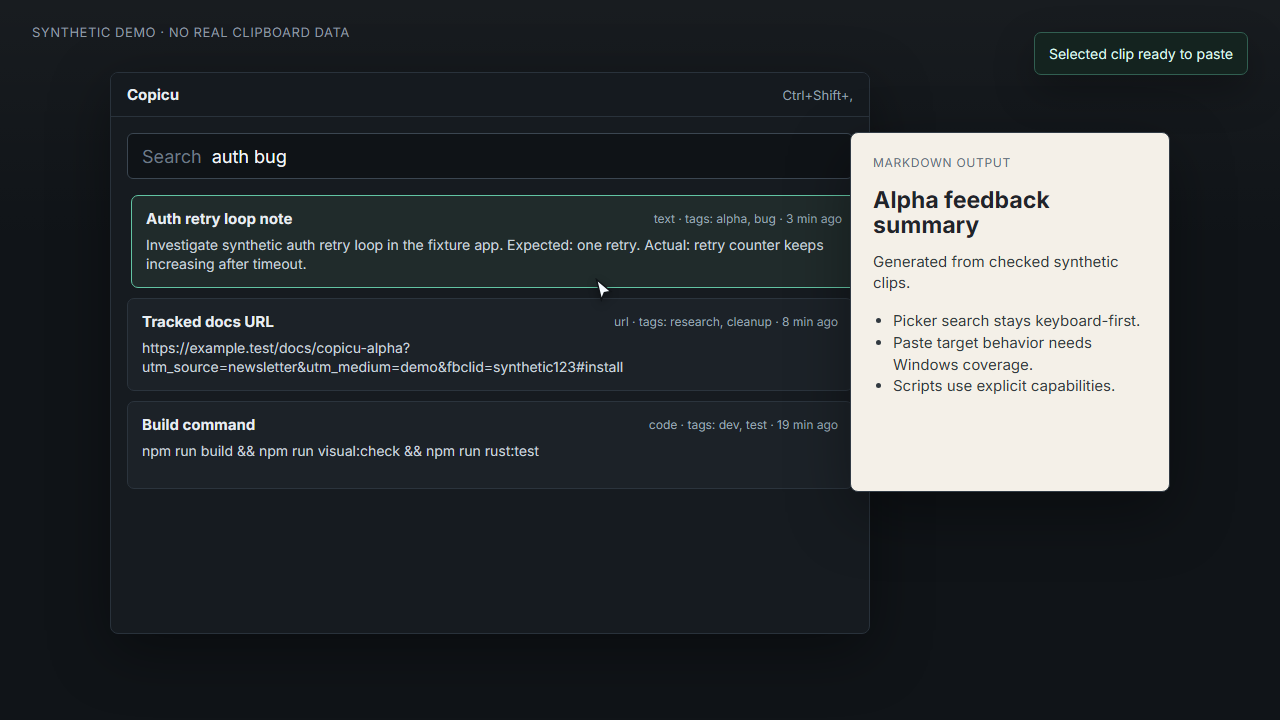
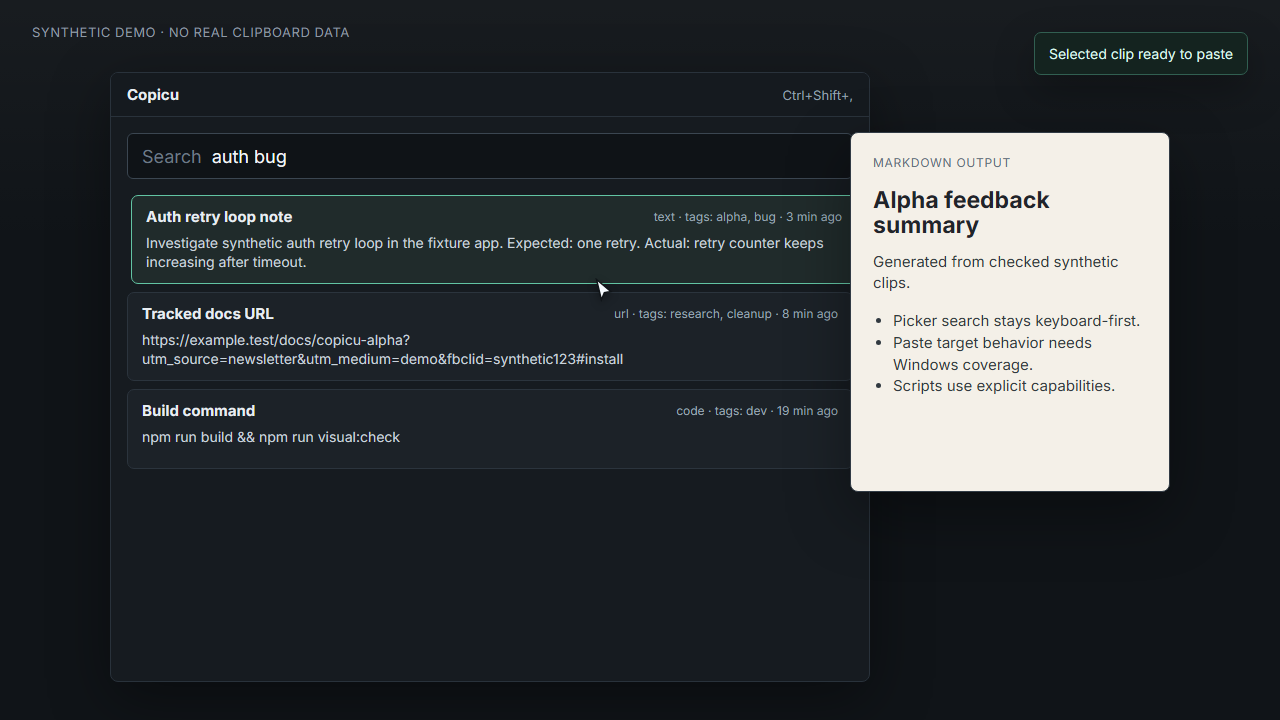
Add synthetic README picker screenshot

diff --git a/docs/launch-drafts.md b/docs/launch-drafts.md
@@ -10,6 +10,137 @@ Do not lead with AI. AI is optional and disabled by default. Lead with Windows c
 
 Current release link for drafts: https://github.com/jpsala/copicu/releases/tag/v0.2.8
 
+## Distribution Drafts
+
+Drafts only. Do not submit package-manager PRs or buy/request certificates without explicit JP approval.
+
+### WinGet Candidate
+
+Recommended timing: prepare after `v0.3.0` exists and the installer name/version/SHA256 are final. Use GitHub Releases as the `InstallerUrl` source.
+
+Open questions before submission:
+
+- final package identifier: likely `JPSala.Copicu` or `jpsala.Copicu`; choose once and keep stable;
+- whether WinGet accepts the current per-user NSIS install behavior cleanly;
+- exact silent switches detected by WinGet validation for Tauri NSIS;
+- whether the unsigned alpha causes policy or user-trust friction.
+
+Draft manifest shape for `v0.3.0`:
+
+```yaml
+# manifests/j/JPSala/Copicu/0.3.0/JPSala.Copicu.yaml
+# yaml-language-server: $schema=https://aka.ms/winget-manifest.version.1.10.0.schema.json
+PackageIdentifier: JPSala.Copicu
+PackageVersion: 0.3.0
+DefaultLocale: en-US
+ManifestType: version
+ManifestVersion: 1.10.0
+```
+
+```yaml
+# manifests/j/JPSala/Copicu/0.3.0/JPSala.Copicu.locale.en-US.yaml
+# yaml-language-server: $schema=https://aka.ms/winget-manifest.defaultLocale.1.10.0.schema.json
+PackageIdentifier: JPSala.Copicu
+PackageVersion: 0.3.0
+PackageLocale: en-US
+Publisher: JP Sala
+PackageName: Copicu
+License: MIT
+ShortDescription: Local-first, scriptable clipboard manager for Windows power users.
+Description: Copicu is a Windows-first clipboard manager that stores history locally, supports search and metadata, and runs trusted local TypeScript/JavaScript actions.
+Moniker: copicu
+Tags:
+  - clipboard
+  - clipboard-manager
+  - local-first
+  - productivity
+  - scripting
+  - tauri
+ManifestType: defaultLocale
+ManifestVersion: 1.10.0
+```
+
+```yaml
+# manifests/j/JPSala/Copicu/0.3.0/JPSala.Copicu.installer.yaml
+# yaml-language-server: $schema=https://aka.ms/winget-manifest.installer.1.10.0.schema.json
+PackageIdentifier: JPSala.Copicu
+PackageVersion: 0.3.0
+InstallerType: nullsoft
+Scope: user
+UpgradeBehavior: install
+ReleaseDate: YYYY-MM-DD
+Installers:
+  - Architecture: x64
+    InstallerUrl: https://github.com/jpsala/copicu/releases/download/v0.3.0/Copicu_0.3.0_x64-setup.exe
+    InstallerSha256: <SHA256_FROM_RELEASE>
+ManifestType: installer
+ManifestVersion: 1.10.0
+```
+
[1 lines of base64/hex data omitted]
+
+Validation note: substituting current `v0.2.8` values into the same manifest shape passed `winget validate .tmp/winget-v0.2.8` after adding the schema headers above.
+
+### Scoop Candidate
+
+Recommended timing: after `v0.3.0`, if direct GitHub Releases install is stable and JP wants a lower-friction package-manager path before WinGet.
+
+Open questions before submission:
+
+- target bucket: a personal bucket first, then an external bucket only after validation;
+- whether Copicu's current per-user installer should be treated as `installer.script`/`uninstaller.script` or whether a portable ZIP should be produced for Scoop;
+- whether auto-update via Tauri updater should be disabled/documented for Scoop installs.
+
+Draft manifest shape:
+
+```json
+{
+  "version": "0.3.0",
+  "description": "Local-first, scriptable clipboard manager for Windows power users.",
+  "homepage": "https://github.com/jpsala/copicu",
+  "license": "MIT",
+  "architecture": {
+    "64bit": {
+      "url": "https://github.com/jpsala/copicu/releases/download/v0.3.0/Copicu_0.3.0_x64-setup.exe#/dl.7z",
+      "hash": "<sha256>"
+    }
+  },
+  "shortcuts": [
+    ["Copicu.exe", "Copicu"]
+  ],
+  "checkver": {
+    "github": "https://github.com/jpsala/copicu"
+  },
+  "autoupdate": {
+    "architecture": {
+      "64bit": {
+        "url": "https://github.com/jpsala/copicu/releases/download/v$version/Copicu_$version_x64-setup.exe#/dl.7z"
+      }
+    }
+  }
+}
+```
+
+Validation note: substituting current `v0.2.8` values into this shape passed JSON syntax validation with `python -m json.tool .tmp/scoop/copicu.json`; install/extraction was not tested because that would mutate the local system. If Scoop cannot reliably extract/run the NSIS artifact as expected, prefer adding a portable ZIP artifact in a future release rather than forcing a fragile manifest.
+
+### Code Signing Candidate
+
+Recommendation for `v0.3.0`: do not buy OV/EV yet. Keep GitHub Releases + SHA256 + transparent SmartScreen warning while collecting installer feedback.
+
+Decision gates before paying or submitting identity paperwork:
+
+1. Confirm installer/update flow for at least one public feedback release.
+2. Estimate expected download volume and SmartScreen complaint rate.
+3. Price OV/EV options and renewal cost.
+4. Verify certificate storage workflow that does not expose private keys in the repo or CI logs.
+5. Decide whether Microsoft Store/MSIX is worth exploring separately from NSIS.
+
+Draft public wording:
+
+```text
+Copicu's Windows alpha installer is distributed through GitHub Releases. The app is not Windows code-signed yet, so SmartScreen or Defender may warn on first install. Verify the release URL and SHA256 before running it. Copicu's auto-update metadata is signed for Tauri updater integrity, but that is separate from Windows Authenticode code signing.
+```
+
 ## Show HN
 
 Title:

diff --git a/docs/tracks/018-public-launch-readiness.md b/docs/tracks/018-public-launch-readiness.md
@@ -398,7 +398,8 @@ Hecho en el primer lote:
   - #16 Add sample action to extract URLs from selected text
   - #17 Add tests for JSON formatting sample action
   - #18 Add README-ready synthetic picker screenshot
-- Implementado localmente para el proximo commit/release:
+- Commit documental `35677ca` (`Persist release and import notes`) pusheado a `origin/main`; `main` quedo sincronizado y limpio.
+- Implementado y pusheado para el proximo commit/release:
   - `scripts/examples/028-clean-url-tracking-copy.ts` (#11)
   - `scripts/examples/029-format-json-copy.ts` (#12)
   - `scripts/run-example-action.mjs` ahora permite `COPICU_MOCK_ITEM_TEXT` / `COPICU_MOCK_ITEM_TITLE` para validar transform scripts con inputs sinteticos especificos
@@ -415,6 +416,16 @@ Hecho en el primer lote:
   - validado `npm run visual:check`
   - app dev reiniciada con `npm run dev:restart`; el tool timeout reporto 120s, pero el log `.codex-run/dev-restart/logs/restart-20260623-135502.log` confirma startup hidden a +80.1s y `copicu.exe` responding=True
 
+Avance local siguiente sesion:
+
+- Empezado #18 con `docs/assets/screenshots/picker-synthetic-history.png`, screenshot README-ready generado con datos sinteticos.
+- `README.md` ahora muestra el screenshot estatico antes del GIF; `docs/assets/README.md` lista el asset.
+- `scripts/demos/generate-synthetic-picker-demo.mjs` ahora consume `docs/assets/source-data/public-demo-clips.json` y regenera screenshot/poster/MP4/GIF desde la misma fuente sintetica.
+- `docs/launch-drafts.md` ahora contiene borradores WinGet, Scoop y code-signing para `v0.3.0` con limites de no submission/no compra.
+- Validado `node scripts/demos/generate-synthetic-picker-demo.mjs`.
+- Validado borrador WinGet sustituyendo valores `v0.2.8`: `winget validate .tmp/winget-v0.2.8` paso tras agregar schema headers.
+- Validado borrador Scoop a nivel JSON con `python -m json.tool .tmp/scoop/copicu.json`; instalacion/extraccion no probadas para no mutar sistema local.
+
 Research de distribucion/confianza 2026-06-23:
 
 - Microsoft Learn indica que para apps fuera de Microsoft Store conviene firmar los archivos, pero la reputacion SmartScreen se construye con descargas/uso; EV ya no debe asumirse como bypass instantaneo desde la documentacion 2024+.
@@ -429,6 +440,6 @@ Research de distribucion/confianza 2026-06-23:
 
 Pendiente inmediato:
 
-1. Crear assets real-looking con datos sinteticos.
-2. Preparar borradores de winget/Scoop/code signing, sin iniciar compras ni submissions.
+1. Revisar si hace falta iterar `docs/assets/screenshots/picker-synthetic-history.png`; si se acepta, cerrar #18 despues de push.
+2. Decidir si el proximo lote es `v0.3.0` o una prueba real de packaging Scoop/WinGet con artefacto final.
 3. Preparar `v0.3.0` cuando README/assets/scripts/issues esten listos.

diff --git a/README.md b/README.md
@@ -8,14 +8,18 @@ Copicu is Windows-first today. It is inspired by advanced clipboard tools like C
 
 ## Demo
 
-This demo uses generated synthetic clipboard data only.
+These assets use generated synthetic clipboard data only.
+
+![Copicu synthetic picker screenshot](docs/assets/screenshots/picker-synthetic-history.png)
+
+Short generated flow:
 
 ![Copicu synthetic picker demo](docs/assets/gifs/copicu-synthetic-picker-demo.gif)
 
 Static poster: [docs/assets/screenshots/copicu-synthetic-picker-demo-poster.png](docs/assets/screenshots/copicu-synthetic-picker-demo-poster.png)  
 Video: [docs/assets/videos/copicu-synthetic-picker-demo.mp4](docs/assets/videos/copicu-synthetic-picker-demo.mp4)
 
-More real-looking synthetic screenshots and short workflow demos are planned before the next public feedback push.
+More real-looking synthetic workflow demos are planned before the next public feedback push.
 
 ## Install The Windows Alpha
 

diff --git a/docs/assets/source-data/synthetic-clips.md b/docs/assets/source-data/synthetic-clips.md
@@ -93,6 +93,12 @@ order by last_used_at desc
 limit 20;
 ```
 
+## Image-Like Placeholder
+
+```text
+SYNTHETIC SCREENSHOT · placeholder image clip for public README demos, no real desktop content
+```
+
 ## JSON
 
 ```json

diff --git a/docs/WORKING_MEMORY.md b/docs/WORKING_MEMORY.md
@@ -17,7 +17,7 @@ Este archivo es router operativo. Si un detalle crece, moverlo a topic, track, s
 | Actions modularization | active | `docs/tracks/017-actions-modularization.md` | Proxima extraccion mecanica chica sin tocar runner Node. |
 | Actions/scripts/hotkeys | active/validated | `docs/tracks/004-actions-scripting.md`, `docs/tracks/012-tags-and-hotkeys.md` | Shortcuts de scripts: flujo manual validado; patch preview opcional. |
 | Performance/UI windows | active | `docs/tracks/014-performance-memory.md`, `docs/topics/custom-window-system.md`, `docs/tracks/010-ui-rethink.md` | UI modularizada en commits `af392f5`/`7b10504`; `NotificationsApp` ya separado; proximo split seguro: `UiHostApp`. |
-| Open source growth | active | `docs/tracks/018-public-launch-readiness.md`, `docs/tracks/013-open-source-growth.md` | Launch readiness pusheado hasta `9c32c51`; queda commit local `a316456` con notas de release/import pendiente de push. Proximo: decidir `v0.3.0` o assets/winget. |
+| Open source growth | active | `docs/tracks/018-public-launch-readiness.md`, `docs/tracks/013-open-source-growth.md` | Launch readiness y notas release/import pusheadas hasta `35677ca`. Avance local: screenshot #18, drafts WinGet/Scoop/code-signing y validacion winget/json; proximo decidir push/v0.3.0. |
 | Dev/instalada | active | `docs/topics/windows-installer.md` | `v0.2.8` publicado e instalado localmente; dev/instalada separados; release trae diagnostics persistente para investigar hangs. |
 | Picker dogfood / Computer Use | active | `tests/manual/dogfood/README.md`, `tests/manual/dogfood/PICKER_REAL_USER_STRESS_FLOW.md`, `tests/manual/dogfood/PICKER_COMPUTER_USE_FOCUS_BATTERY.md`, `docs/topics/picker-interaction.md` | New item + Pin commiteados en `3826de1`; captura contexto oculto commiteada en `c94cf25`; panel About + Check now commiteado en `031ec5a`. Mantener oracle C0: app externa -> hotkey -> type sin focus manual debe escribir en search. |
 | OS / sistema agentico | active | `docs/topics/agentic-os-operations.md`, `docs/topics/docs-knowledge-system.md`, `docs/topics/pi-agentic-os.md` | Copicu es downstream AOS: solo piezas locales aplicables, sin manager-only del upstream. Quedan warnings de TOPICS/topics grandes. |
@@ -55,7 +55,7 @@ Este archivo es router operativo. Si un detalle crece, moverlo a topic, track, s
 
 - Chunk gate: build actual sin warning; `mise run release-vite-chunk-check` protege regresion.
 - Infra local: si `visual:check`/Rust focalizados fallan, contrastar con `cargo check`, build y dogfood.
-- GitHub auth en Pi esta OK. `origin/main` esta en `9c32c51`; local `main` esta 1 commit adelante en `a316456` (`Persist release and import notes`), pendiente de push si JP lo quiere. Release Windows vigente `v0.2.8` fue cortado desde `3905b6e`.
+- GitHub auth en Pi esta OK. `main` y `origin/main` estan sincronizados en `35677ca` (`Persist release and import notes`). Release Windows vigente `v0.2.8` fue cortado desde `3905b6e`.
 - Updater: respaldar fuera del repo `.codex-run/secrets/copicu-updater.key` y `.codex-run/secrets/copicu-updater.password`; perderlos impide firmar updates para instalaciones `v0.2.5+`.
 - Shortcuts globales: evitar colisiones instalada/dev y preferir ruta nativa para hotkeys criticas.
 - Dogfood dev: usar `npm run dev:restart` / built-dev si `tauri dev` varía.

diff --git a/docs/.generated/context-index.md b/docs/.generated/context-index.md
@@ -2,7 +2,7 @@
 
 Generated cache. Do not edit by hand.
 
-Generated: 2026-06-23T17:07:33.629Z
+Generated: 2026-06-23T17:23:11.827Z
 
 ## Topics
 

diff --git a/docs/release-drafts/v0.3.0-public-feedback.md b/docs/release-drafts/v0.3.0-public-feedback.md
@@ -18,7 +18,7 @@ This release refreshes Copicu's public onboarding and adds a clearer script/acti
 - Reworked README to front-load install, demo, core flows, privacy, limitations, and contribution paths.
 - Added clearer public launch docs and drafts for technical/community feedback.
 - Added more realistic synthetic demo data for screenshots, docs, and future recordings.
-- Refreshed the generated synthetic picker demo GIF/MP4/poster.
+- Added a README-ready synthetic picker screenshot and refreshed the generated picker demo GIF/MP4/poster.
 - Added two trusted local script examples:
   - clean URL tracking parameters and copy the cleaned URL;
   - format selected JSON and copy the pretty-printed result.

diff --git a/docs/assets/README.md b/docs/assets/README.md
@@ -89,6 +89,7 @@ Current source data:
 
 Current generated demo:
 
+- `screenshots/picker-synthetic-history.png`
 - `videos/copicu-synthetic-picker-demo.mp4`
 - `gifs/copicu-synthetic-picker-demo.gif`
 - `screenshots/copicu-synthetic-picker-demo-poster.png`